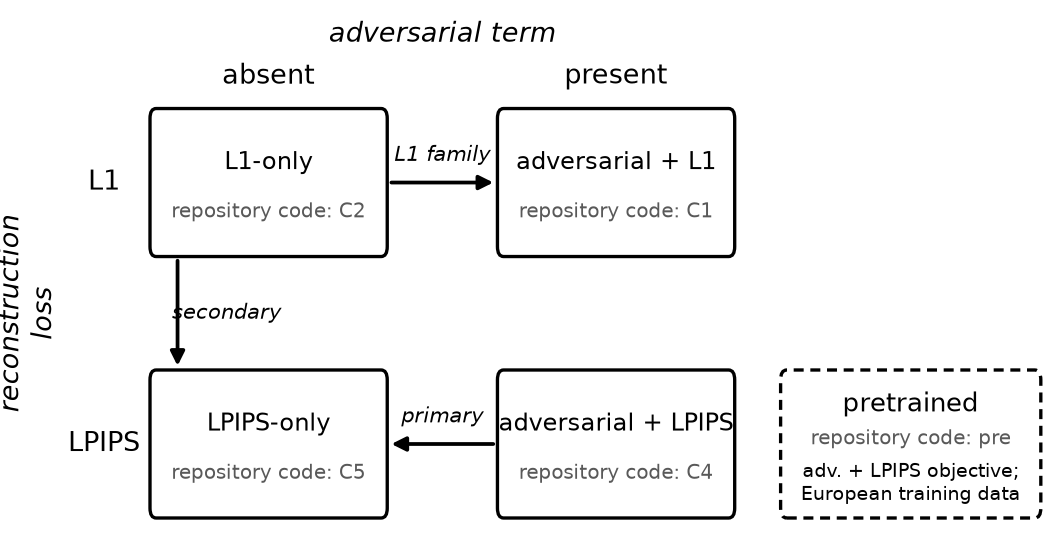
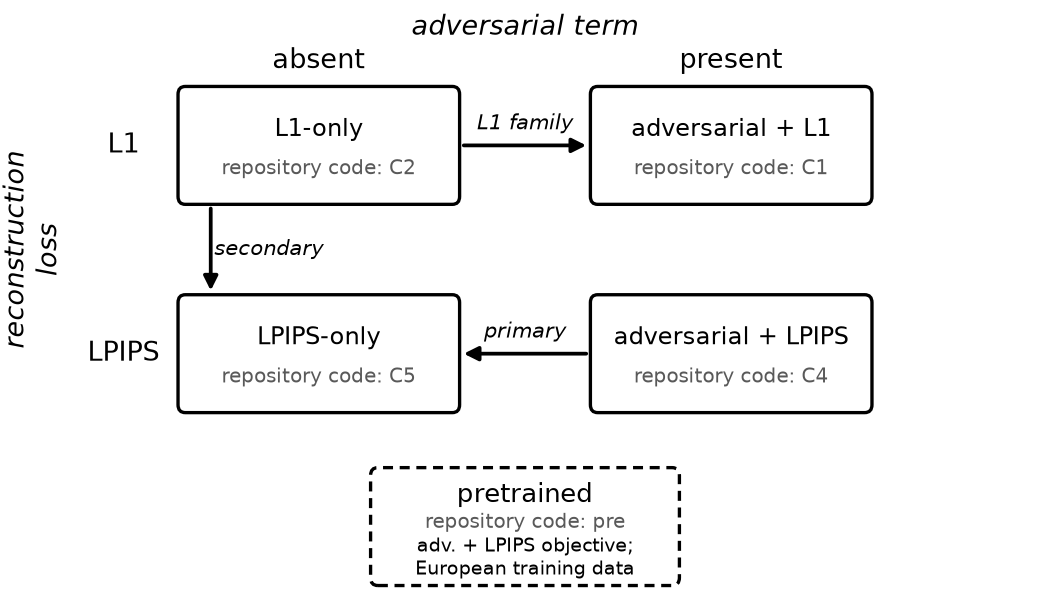
P14: the fifth arm's box below the grid in Fig. 1; the first-page note reads 'Preprint, September 2026', with its reversion on the condensation checklist

diff --git a/manuscript/letter.tex b/manuscript/letter.tex
@@ -36,7 +36,7 @@
 for Geometric Matching}
 
 \author{Mustafa Vedat Y\i ld\i r\i m and co-author%
-\thanks{Manuscript submitted 2026. Study repository and full experiment records:
+\thanks{Preprint, September 2026. Study repository and full experiment records:
 \url{https://github.com/mvy0502/gencp-validation}.}}
 
 \markboth{IEEE Geoscience and Remote Sensing Letters}%

diff --git a/figures/README.md b/figures/README.md
@@ -17,7 +17,7 @@ Rules:
 2. Panel labels and axis text in English, sized for a two-column IEEE page.
 3. No number appears in a caption unless it has a row in [`../EVIDENCE.md`](../EVIDENCE.md).
 | `fig_epoch_curve.pdf` (+ `.png`) | Fig. 3 (the training-time curve, III-E; Fig. 1 until 13 Sep 2026; legend respelled 14 Sep): adversarial penalty against epoch, both families, six seeds; registered reading HELD in both. Grayscale-safe encoding since 13 Sep (black solid circles vs gray dashed squares; was blue vs red) | `epoch_curve_analysis.py --root <root> --out <dir>` (study repository, `tubitak/scripts/seed_eval/`), where `<root>/tubitak/data/tool_runs` may be a symlink to the committed `tubitak/docs/evidence/` (the 24 epoch cells and the six-seed block); regenerated that way on 13 Sep with analysis outputs byte-identical to `evidence/epoch_curve/` | gencp-validation `aa0f82c` |
-| `fig_design.pdf` (+ `.png`) | Fig. 1 (the $2\times2$ design, II-B): arm names, repository arm codes, the fifth arm outside the grid, the three reported contrasts as arrows; reads no data | `/opt/homebrew/Caskroom/miniforge/base/envs/gencp/bin/python tubitak/scripts/figures/fig_design.py --out ../gencp-letter/figures` | gencp-validation `aa0f82c` |
+| `fig_design.pdf` (+ `.png`) | Fig. 1 (the $2\times2$ design, II-B): arm names, repository arm codes, the fifth arm outside the grid, the three reported contrasts as arrows; reads no data | `/opt/homebrew/Caskroom/miniforge/base/envs/gencp/bin/python tubitak/scripts/figures/fig_design.py --out ../gencp-letter/figures` | gencp-validation `e26c7fa` (14 Sep, later: the fifth arm's box below the grid, grid centred) |
 | `fig_sign_replication.pdf` (+ `.png`) | Fig. 2 (sign replication, III-B): the three seed-level contrasts, six seeds each as points against zero, mean and 95% interval behind them; reads the six committed `C45_s{45..50}_modal/C45_per_chip.csv` and refuses to draw unless it reproduces the committed means and intervals to four decimals | `/opt/homebrew/Caskroom/miniforge/base/envs/gencp/bin/python tubitak/scripts/figures/fig_sign_replication.py --out ../gencp-letter/figures` | gencp-validation `aa0f82c` (14 Sep: each panel titled with its section; the zero line dashed and set well inside the frame) |
 
 Files are named by content, not by number: LaTeX numbers figures by order of appearance. Since 13 Sep 2026 the order is design (II-B), sign replication (III-B), curve (III-E), panels (III-F); the enumeration behind that renumbering is `../notes/figure-renumbering-2026-09-13.md`.

diff --git a/notes/condensation-rule.md b/notes/condensation-rule.md
@@ -57,3 +57,7 @@ paragraph in IV-A; prose that restates a table.
 
 - IV-A "The result" restates III-H's 0.986 / 0.277 / 3.6 in near-identical words; Table II row 1 states them a third time. Section III reports and Section IV answers, so three statements are by design, but in the letter one of III-H and IV-A can become a pointer. The verbatim mechanism clause was already replaced by a pointer in IV-A.
 - The Fig. 3 caption now cites (1a) instead of restating it; the same can be done wherever a caption re-describes a defined quantity.
+
+## For the GRSL version (added 14 September 2026, P14 B)
+
+- The first-page note reads "Preprint, September 2026." on the arXiv version because nothing has been submitted. When the GRSL version is made, it reverts to a submission note with the actual date, and the arXiv record's copyright line follows the version bookkeeping above.

diff --git a/notes/submission-checklist.md b/notes/submission-checklist.md
@@ -16,6 +16,7 @@
 ## Before IEEE GRSL
 
 - [ ] GRSL page limit respected (5 pages) and the template used unmodified
+- [ ] First-page note changed from "Preprint, September 2026." to the submission note with the real date (P14 B)
 - [ ] GRSL's current preprint and supplementary-material policy verified
 - [ ] arXiv identifier cited in the submission where the venue allows it
 - [ ] E3 absent from every results table (exploratory only)
